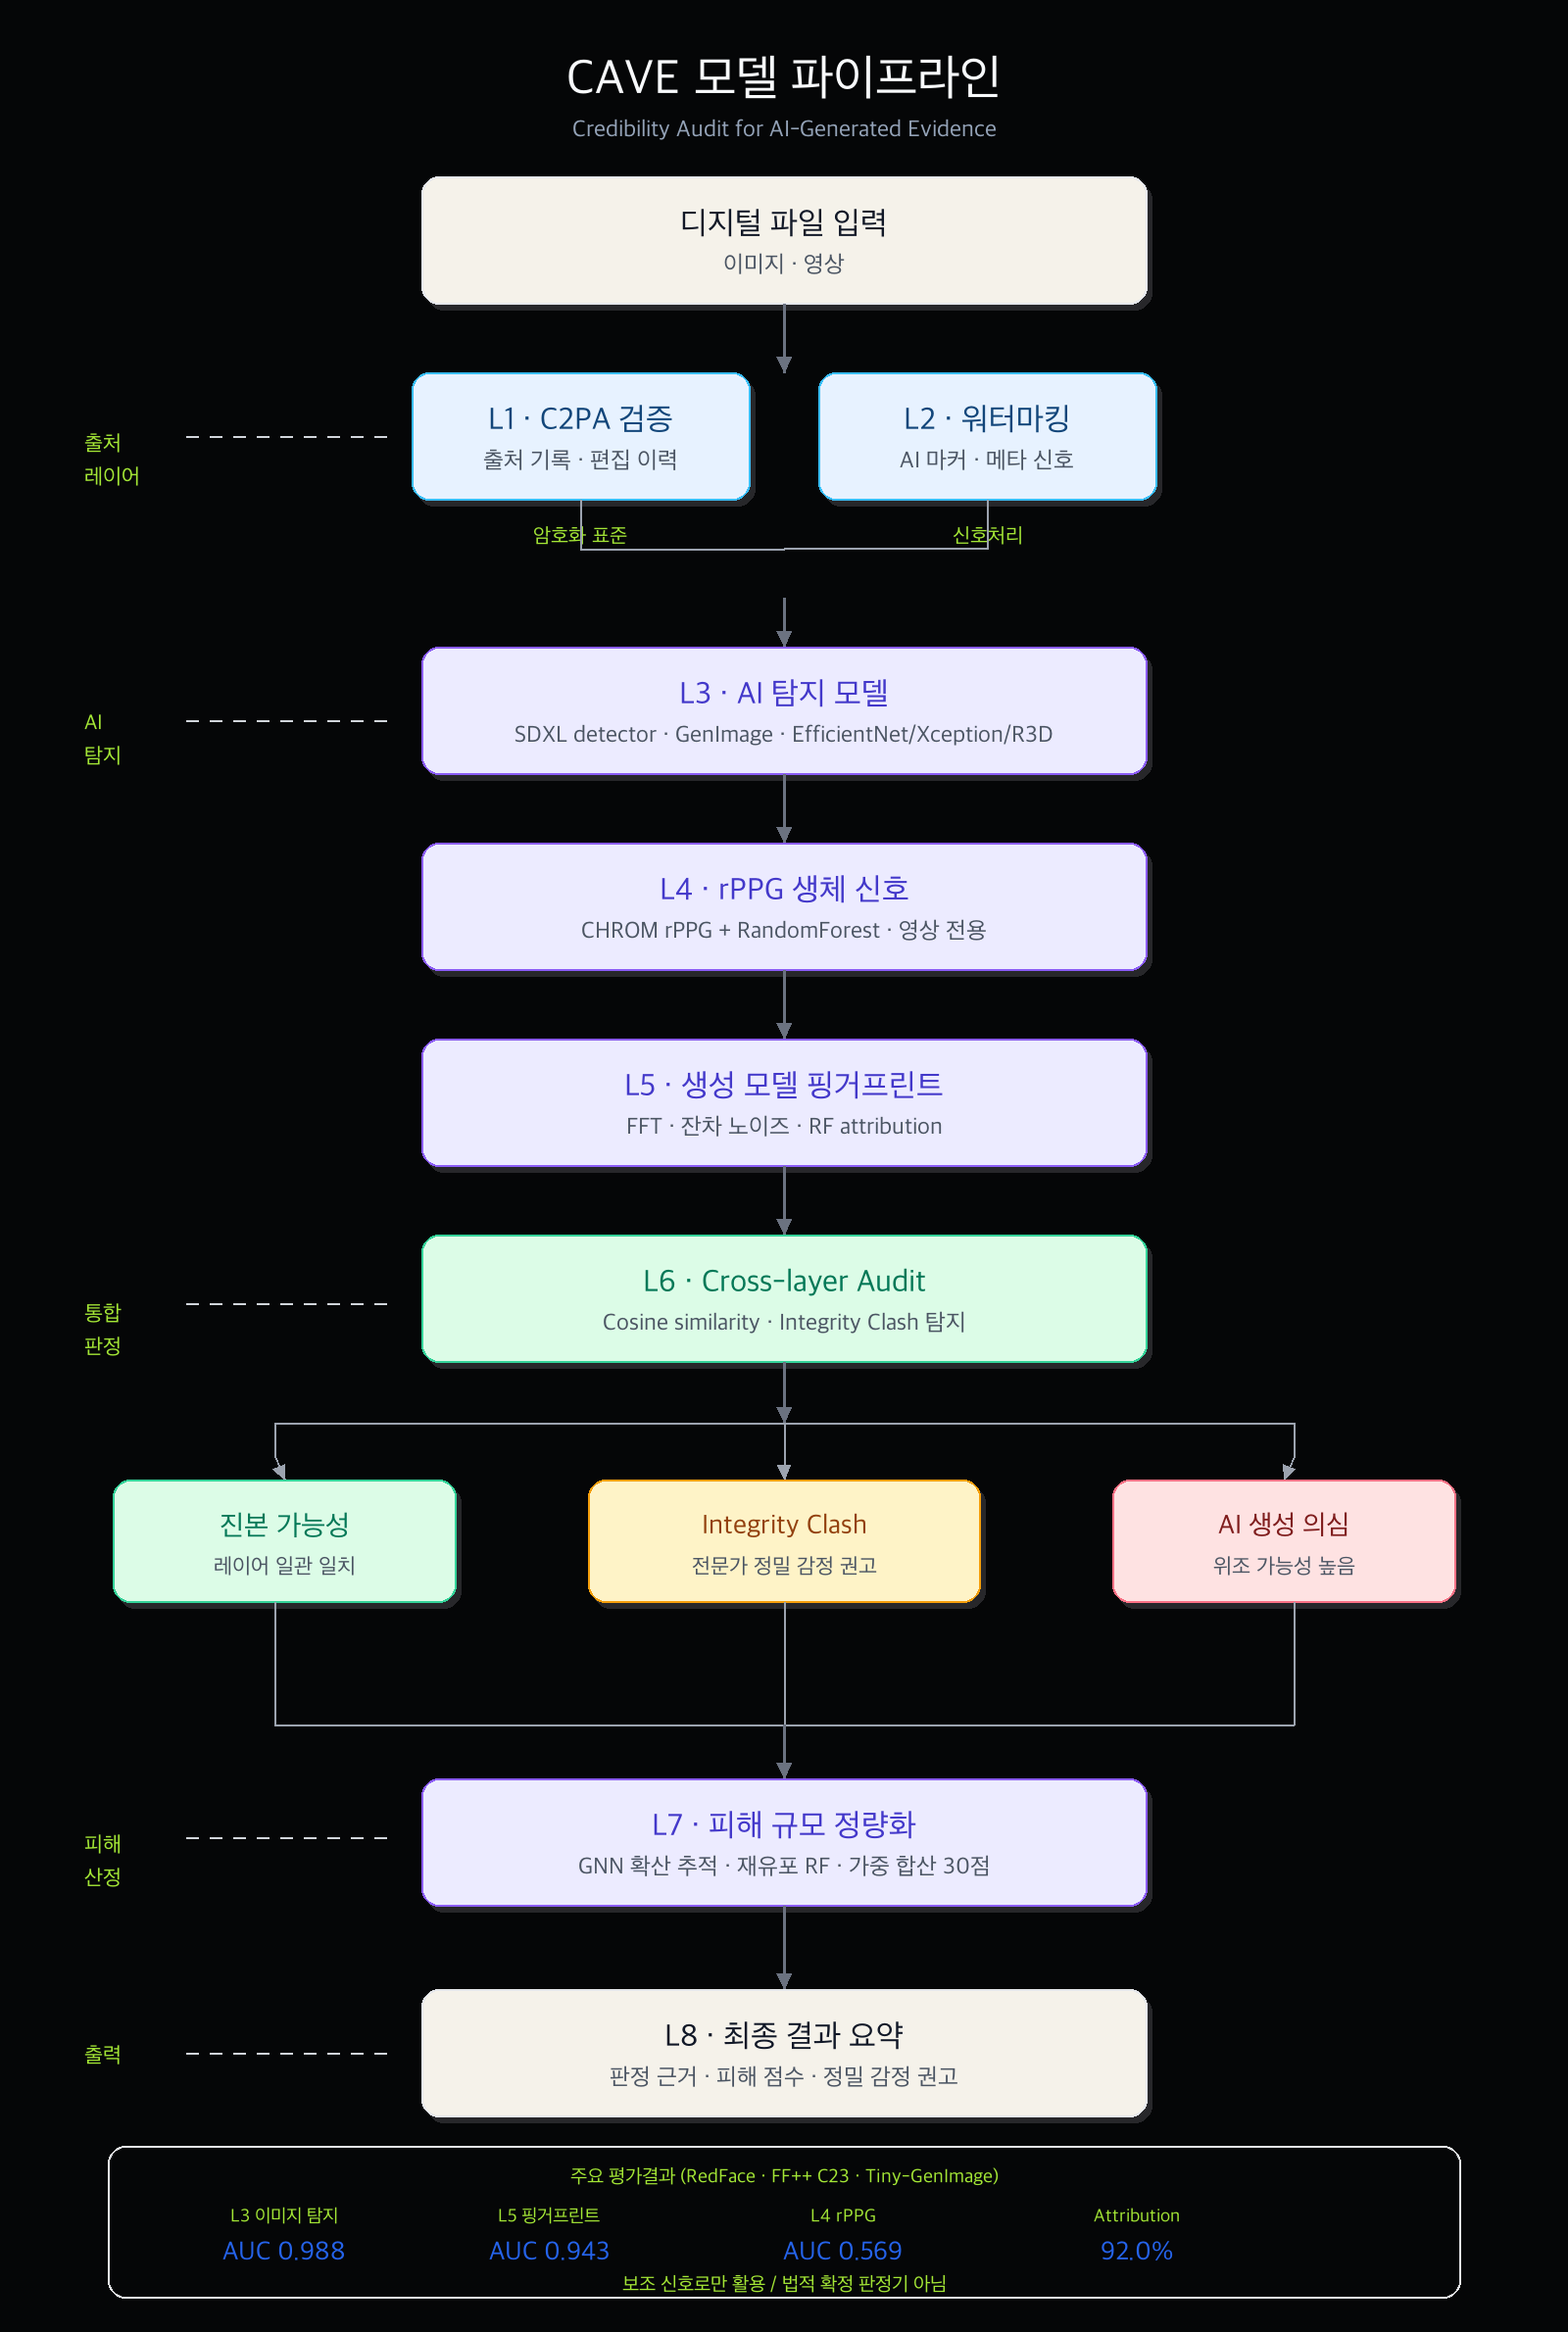
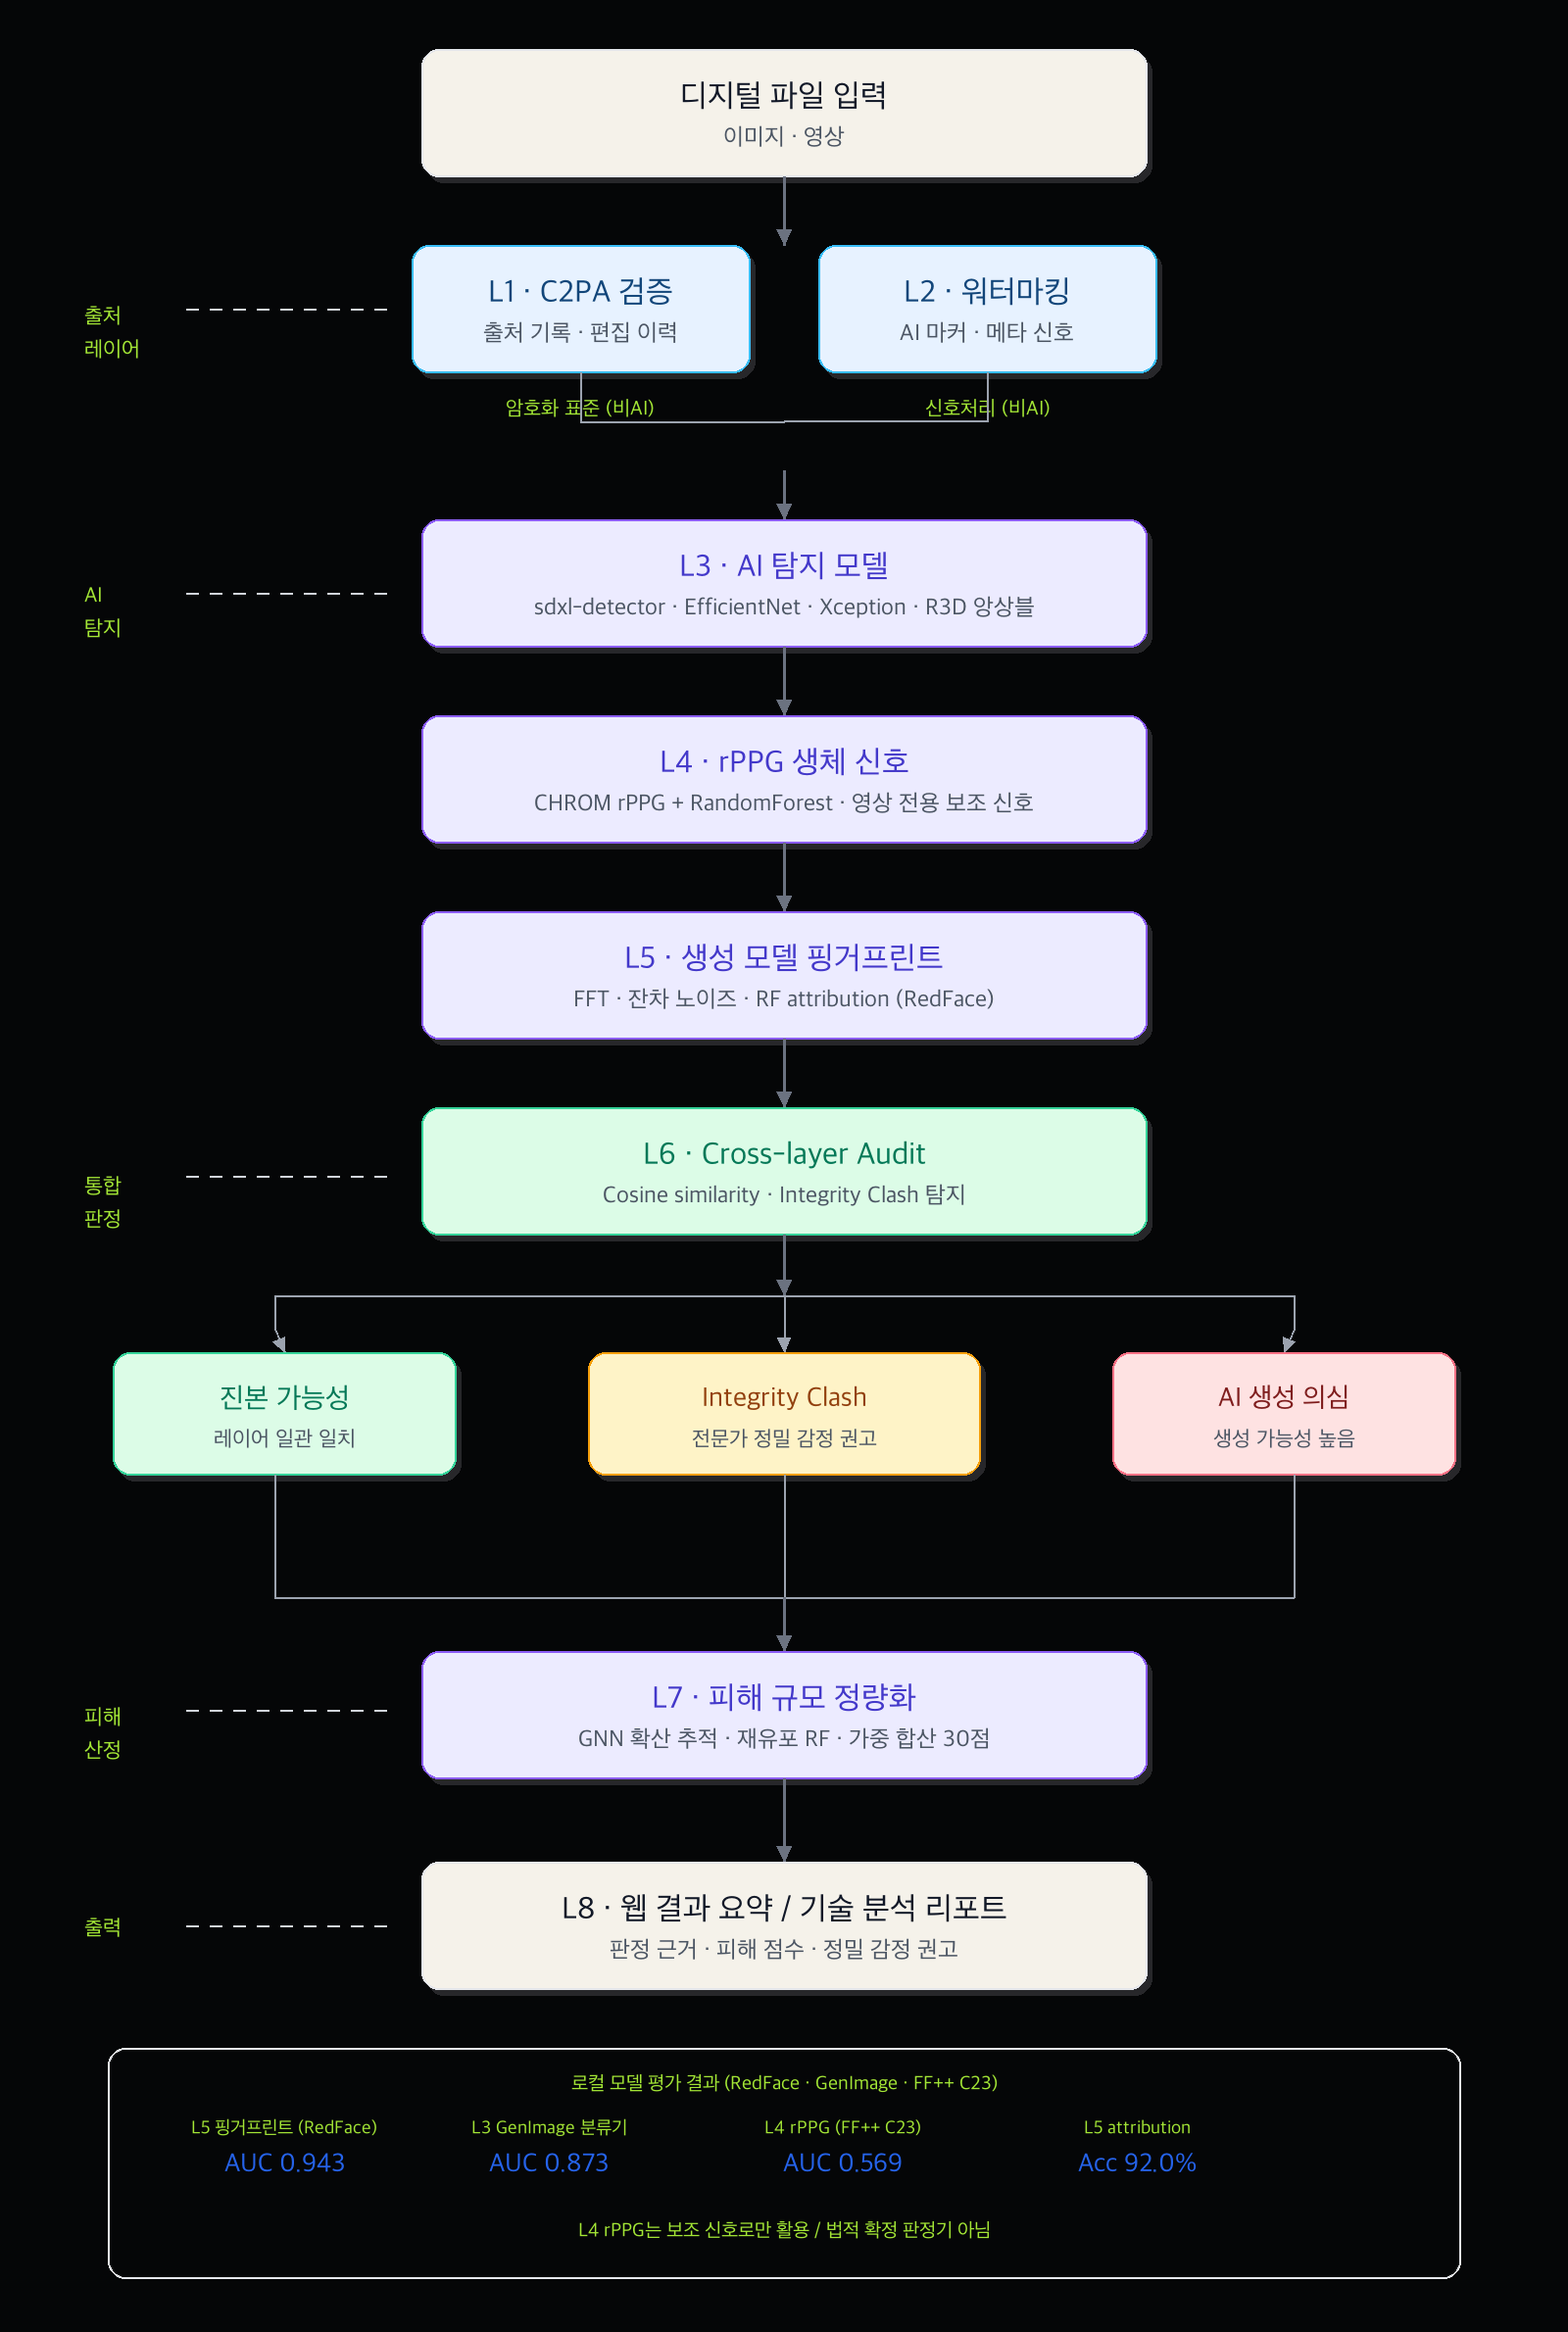
Match README pipeline diagram to final vertical design

diff --git a/scripts/generate_readme_architecture_assets.py b/scripts/generate_readme_architecture_assets.py
@@ -41,92 +41,89 @@ def render_pipeline() -> Image.Image:
     img = Image.new("RGB", (1600, 2380), "#050607")
     draw = ImageDraw.Draw(img)
 
-    center_text(draw, 800, 52, "CAVE 모델 파이프라인", font(50), "#f8fafc")
-    center_text(draw, 800, 118, "Credibility Audit for AI-Generated Evidence", font(24), "#94a3b8")
-
     x = 800
-    input_box = (430, 180, 1170, 310)
-    l1_box = (420, 380, 765, 510)
-    l2_box = (835, 380, 1180, 510)
-    l3_box = (430, 660, 1170, 790)
-    l4_box = (430, 860, 1170, 990)
-    l5_box = (430, 1060, 1170, 1190)
-    l6_box = (430, 1260, 1170, 1390)
-    authentic_box = (115, 1510, 465, 1635)
-    clash_box = (600, 1510, 1000, 1635)
-    suspected_box = (1135, 1510, 1485, 1635)
-    l7_box = (430, 1815, 1170, 1945)
-    output_box = (430, 2030, 1170, 2160)
-    metrics_box = (110, 2190, 1490, 2345)
+    input_box = (430, 50, 1170, 180)
+    l1_box = (420, 250, 765, 380)
+    l2_box = (835, 250, 1180, 380)
+    l3_box = (430, 530, 1170, 660)
+    l4_box = (430, 730, 1170, 860)
+    l5_box = (430, 930, 1170, 1060)
+    l6_box = (430, 1130, 1170, 1260)
+    authentic_box = (115, 1380, 465, 1505)
+    clash_box = (600, 1380, 1000, 1505)
+    suspected_box = (1135, 1380, 1485, 1505)
+    l7_box = (430, 1685, 1170, 1815)
+    output_box = (430, 1900, 1170, 2030)
+    metrics_box = (110, 2090, 1490, 2325)
 
     pipeline_box(draw, input_box, "디지털 파일 입력", "이미지 · 영상", fill="#f5f2ea", outline="#e5e7eb")
-    down_arrow(draw, x, 310, 380)
+    down_arrow(draw, x, 180, 250)
 
-    layer_label(draw, 86, 440, "출처\n레이어")
-    dashed_guide(draw, 190, 445, 405, 445)
+    layer_label(draw, 86, 310, "출처\n레이어")
+    dashed_guide(draw, 190, 315, 405, 315)
     pipeline_box(draw, l1_box, "L1 · C2PA 검증", "출처 기록 · 편집 이력", fill="#e7f2ff", outline="#38bdf8", title_color="#12467a")
     pipeline_box(draw, l2_box, "L2 · 워터마킹", "AI 마커 · 메타 신호", fill="#e7f2ff", outline="#38bdf8", title_color="#12467a")
-    center_text(draw, 592, 535, "암호화 표준", font(21), "#a3e635")
-    center_text(draw, 1008, 535, "신호처리", font(21), "#a3e635")
-    connect_to_center(draw, l1_box, x, 610)
-    connect_to_center(draw, l2_box, x, 610)
-    down_arrow(draw, x, 610, 660)
+    center_text(draw, 592, 405, "암호화 표준 (비AI)", font(21), "#a3e635")
+    center_text(draw, 1008, 405, "신호처리 (비AI)", font(21), "#a3e635")
+    connect_to_center(draw, l1_box, x, 480)
+    connect_to_center(draw, l2_box, x, 480)
+    down_arrow(draw, x, 480, 530)
 
-    layer_label(draw, 86, 725, "AI\n탐지")
-    dashed_guide(draw, 190, 735, 405, 735)
-    pipeline_box(draw, l3_box, "L3 · AI 탐지 모델", "SDXL detector · GenImage · EfficientNet/Xception/R3D", fill="#ecebff", outline="#8b5cf6", title_color="#4338ca")
-    down_arrow(draw, x, 790, 860)
-    pipeline_box(draw, l4_box, "L4 · rPPG 생체 신호", "CHROM rPPG + RandomForest · 영상 전용", fill="#ecebff", outline="#8b5cf6", title_color="#4338ca")
-    down_arrow(draw, x, 990, 1060)
-    pipeline_box(draw, l5_box, "L5 · 생성 모델 핑거프린트", "FFT · 잔차 노이즈 · RF attribution", fill="#ecebff", outline="#8b5cf6", title_color="#4338ca")
-    down_arrow(draw, x, 1190, 1260)
+    layer_label(draw, 86, 595, "AI\n탐지")
+    dashed_guide(draw, 190, 605, 405, 605)
+    pipeline_box(draw, l3_box, "L3 · AI 탐지 모델", "sdxl-detector · EfficientNet · Xception · R3D 앙상블", fill="#ecebff", outline="#8b5cf6", title_color="#4338ca")
+    down_arrow(draw, x, 660, 730)
+    pipeline_box(draw, l4_box, "L4 · rPPG 생체 신호", "CHROM rPPG + RandomForest · 영상 전용 보조 신호", fill="#ecebff", outline="#8b5cf6", title_color="#4338ca")
+    down_arrow(draw, x, 860, 930)
+    pipeline_box(draw, l5_box, "L5 · 생성 모델 핑거프린트", "FFT · 잔차 노이즈 · RF attribution (RedFace)", fill="#ecebff", outline="#8b5cf6", title_color="#4338ca")
+    down_arrow(draw, x, 1060, 1130)
 
-    layer_label(draw, 86, 1328, "통합\n판정")
-    dashed_guide(draw, 190, 1330, 405, 1330)
+    layer_label(draw, 86, 1198, "통합\n판정")
+    dashed_guide(draw, 190, 1200, 405, 1200)
     pipeline_box(draw, l6_box, "L6 · Cross-layer Audit", "Cosine similarity · Integrity Clash 탐지", fill="#dcfce7", outline="#34d399", title_color="#047857")
-    down_arrow(draw, x, 1390, 1452)
-    draw.line((280, 1452, 1320, 1452), fill="#9ca3af", width=2)
-    branch_arrow(draw, 280, 1452, center_top(authentic_box))
-    branch_arrow(draw, x, 1452, center_top(clash_box))
-    branch_arrow(draw, 1320, 1452, center_top(suspected_box))
+    down_arrow(draw, x, 1260, 1322)
+    draw.line((280, 1322, 1320, 1322), fill="#9ca3af", width=2)
+    branch_arrow(draw, 280, 1322, center_top(authentic_box))
+    branch_arrow(draw, x, 1322, center_top(clash_box))
+    branch_arrow(draw, 1320, 1322, center_top(suspected_box))
     pipeline_box(draw, authentic_box, "진본 가능성", "레이어 일관 일치", fill="#dcfce7", outline="#34d399", title_color="#047857", title_size=29, body_size=22)
     pipeline_box(draw, clash_box, "Integrity Clash", "전문가 정밀 감정 권고", fill="#fef3c7", outline="#f59e0b", title_color="#92400e", title_size=28, body_size=22)
-    pipeline_box(draw, suspected_box, "AI 생성 의심", "위조 가능성 높음", fill="#fee2e2", outline="#fb7185", title_color="#7f1d1d", title_size=28, body_size=22)
-    draw.line((280, 1760, 1320, 1760), fill="#9ca3af", width=2)
-    draw.line((280, 1635, 280, 1760), fill="#9ca3af", width=2)
-    draw.line((800, 1635, 800, 1760), fill="#9ca3af", width=2)
-    draw.line((1320, 1635, 1320, 1760), fill="#9ca3af", width=2)
-    down_arrow(draw, x, 1760, 1815)
+    pipeline_box(draw, suspected_box, "AI 생성 의심", "생성 가능성 높음", fill="#fee2e2", outline="#fb7185", title_color="#7f1d1d", title_size=28, body_size=22)
+    draw.line((280, 1630, 1320, 1630), fill="#9ca3af", width=2)
+    draw.line((280, 1505, 280, 1630), fill="#9ca3af", width=2)
+    draw.line((800, 1505, 800, 1630), fill="#9ca3af", width=2)
+    draw.line((1320, 1505, 1320, 1630), fill="#9ca3af", width=2)
+    down_arrow(draw, x, 1630, 1685)
 
-    layer_label(draw, 86, 1870, "피해\n산정")
-    dashed_guide(draw, 190, 1875, 405, 1875)
+    layer_label(draw, 86, 1740, "피해\n산정")
+    dashed_guide(draw, 190, 1745, 405, 1745)
     pipeline_box(draw, l7_box, "L7 · 피해 규모 정량화", "GNN 확산 추적 · 재유포 RF · 가중 합산 30점", fill="#ecebff", outline="#8b5cf6", title_color="#4338ca")
-    down_arrow(draw, x, 1945, 2030)
+    down_arrow(draw, x, 1815, 1900)
 
-    layer_label(draw, 86, 2085, "출력")
-    dashed_guide(draw, 190, 2095, 405, 2095)
-    pipeline_box(draw, output_box, "L8 · 최종 결과 요약", "판정 근거 · 피해 점수 · 정밀 감정 권고", fill="#f5f2ea", outline="#e5e7eb")
+    layer_label(draw, 86, 1955, "출력")
+    dashed_guide(draw, 190, 1965, 405, 1965)
+    pipeline_box(draw, output_box, "L8 · 웹 결과 요약 / 기술 분석 리포트", "판정 근거 · 피해 점수 · 정밀 감정 권고", fill="#f5f2ea", outline="#e5e7eb")
 
     draw.rounded_rectangle(metrics_box, radius=18, fill="#050607", outline="#e5e7eb", width=2)
-    center_text(draw, 800, 2210, "주요 평가결과 (RedFace · FF++ C23 · Tiny-GenImage)", font(20), "#a3e635")
-    metric_text(draw, 290, 2250, "L3 이미지 탐지", metrics["l3_auc"])
-    metric_text(draw, 560, 2250, "L5 핑거프린트", metrics["l5_auc"])
-    metric_text(draw, 860, 2250, "L4 rPPG", metrics["l4_auc"])
-    metric_text(draw, 1160, 2250, "Attribution", metrics["attribution"])
-    center_text(draw, 800, 2320, "보조 신호로만 활용 / 법적 확정 판정기 아님", font(20), "#a3e635")
+    center_text(draw, 800, 2115, "로컬 모델 평가 결과 (RedFace · GenImage · FF++ C23)", font(20), "#a3e635")
+    metric_text(draw, 290, 2160, "L5 핑거프린트 (RedFace)", metrics["l5_auc"])
+    metric_text(draw, 560, 2160, "L3 GenImage 분류기", metrics["l3_auc"])
+    metric_text(draw, 860, 2160, "L4 rPPG (FF++ C23)", metrics["l4_auc"])
+    metric_text(draw, 1160, 2160, "L5 attribution", metrics["attribution"])
+    center_text(draw, 800, 2265, "L4 rPPG는 보조 신호로만 활용 / 법적 확정 판정기 아님", font(20), "#a3e635")
 
     return img
 
 
 def read_pipeline_metrics() -> dict[str, str]:
-    image_calibration = read_json("image_calibration.json")
+    general_aigc_meta = read_json("general_aigc_classifier.meta.json")
     fingerprint_meta = read_json("fingerprint_classifier.meta.json")
     rppg_meta = read_json("rppg_classifier.meta.json")
     return {
-        "l3_auc": f"AUC {image_calibration.get('training_metrics', {}).get('auc', 0.0):.3f}",
+        "l3_auc": f"AUC {general_aigc_meta.get('test_auc', 0.0):.3f}",
         "l5_auc": f"AUC {fingerprint_meta.get('test_auc', 0.0):.3f}",
         "l4_auc": f"AUC {rppg_meta.get('test_auc', 0.0):.3f}",
-        "attribution": f"{fingerprint_meta.get('method_accuracy', 0.0) * 100:.1f}%",
+        "attribution": f"Acc {fingerprint_meta.get('method_accuracy', 0.0) * 100:.1f}%",
     }
 
 
